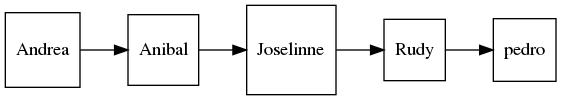
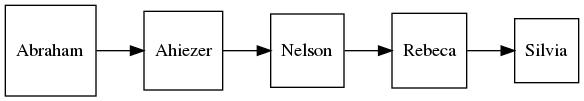
Ya funciona casi

Changed region(s): [[0.0, 0.03, 1.0, 0.96]]

diff --git a/main.cpp b/main.cpp
@@ -9,12 +9,12 @@
 using namespace std;
 using json = nlohmann::json;
 
-void leerJson(Core *cor);
+void leerJson(Core *cor,int *tam);
 void ingresarJugadores(Core *cor);
 void insertarjugadores2(Core *cor){
 
         std::cout<<"Ingresar nombre del usuario"<<std::endl;
-        string nombres[]={"Mario","Silvia","Abraham","Nelson","Rebeca"};
+        string nombres[]={"Ahiezer","Silvia","Abraham","Nelson","Rebeca"};
         bool breaker;
         for(string nombre:nombres){
             breaker=cor->arbol->insertar(nombre);
@@ -29,10 +29,11 @@ void insertarjugadores2(Core *cor){
 
 int main()
 {
-
+    int tama=0;
+    int *taman=&tama;
     Core *core=new Core();
     Tablero *tablero=new Tablero(core);
-    core->crearMatriz(15);
+    //core->crearMatriz(15);
     /*core->matriz->imprimir();
     //core->llenarColaFichas();
     //core->Fichas->imprimir();
@@ -60,7 +61,7 @@ int main()
         std::cin>>opcion;
         switch (opcion) {
         case 1:
-            leerJson(core);
+            leerJson(core,taman);
             break;
         case 2:
             //core->llenarColaFichas();
@@ -70,7 +71,7 @@ int main()
             break;
         case 3:
             tablero->escojerJugadores();
-            tablero->prepararTablero();
+            tablero->prepararTablero(taman);
             tablero->dibujaTablero();
             break;
         case 4:
@@ -134,7 +135,7 @@ void ingresarJugadores(Core *cor){
     }
 }
 
-void leerJson(Core *cor){
+void leerJson(Core *cor,int *tam){
     while (true) {
         std::cout<<"Por favor, ingrese la ruta de ubicacion"<<std::endl;
         std::cout<<"de su archivo de configuarcion"<<std::endl;
@@ -151,7 +152,7 @@ void leerJson(Core *cor){
                     cor->diccionario->insertar((palabra));
                     //cout << "Palabra: " << j3.at("diccionario")[x].at("palabra") << endl;
                 }
-            cor->crearMatriz(j3.at("dimension").get<int>());
+            *tam=j3.at("dimension").get<int>();
             //std::cout<<j3.at("dimension").get<int>()<<std::endl;
 
             for(unsigned int x = 0; x < j3.at("casillas").at("dobles").size(); x++){

diff --git a/core.cpp b/core.cpp
@@ -68,6 +68,44 @@ void Core::meterfichasPruba(){
     this->Fichas->meterradom("G",2,1);
     this->Fichas->meterradom("U",1,4);
     this->Fichas->meterradom("H",4,3);
+    this->Fichas->meterradom("A",1,1);
+    this->Fichas->meterradom("S",1,2);
+    this->Fichas->meterradom("M",3,1);
+    this->Fichas->meterradom("A",1,1);
+    this->Fichas->meterradom("R",1,2);
+    this->Fichas->meterradom("H",4,3);
+    this->Fichas->meterradom("O",1,2);
+    this->Fichas->meterradom("L",1,5);
+    this->Fichas->meterradom("A",1,5);
+    this->Fichas->meterradom("V",4,3);
+    this->Fichas->meterradom("A",1,1);
+    this->Fichas->meterradom("O",1,2);
+    this->Fichas->meterradom("L",1,5);
+    this->Fichas->meterradom("G",2,1);
+    this->Fichas->meterradom("U",1,4);
+    this->Fichas->meterradom("H",4,3);
+    this->Fichas->meterradom("O",1,2);
+    this->Fichas->meterradom("L",1,5);
+    this->Fichas->meterradom("A",1,5);
+    this->Fichas->meterradom("O",1,2);
+    this->Fichas->meterradom("L",1,5);
+    this->Fichas->meterradom("A",1,5);
+    this->Fichas->meterradom("A",1,1);
+    this->Fichas->meterradom("S",1,2);
+    this->Fichas->meterradom("M",3,1);
+    this->Fichas->meterradom("A",1,1);
+    this->Fichas->meterradom("R",1,2);
+    this->Fichas->meterradom("H",4,3);
+    this->Fichas->meterradom("O",1,2);
+    this->Fichas->meterradom("L",1,5);
+    this->Fichas->meterradom("A",1,5);
+    this->Fichas->meterradom("V",4,3);
+    this->Fichas->meterradom("A",1,1);
+    this->Fichas->meterradom("O",1,2);
+    this->Fichas->meterradom("L",1,5);
+    this->Fichas->meterradom("G",2,1);
+    this->Fichas->meterradom("U",1,4);
+    this->Fichas->meterradom("H",4,3);
     this->Fichas->meterradom("O",1,2);
     this->Fichas->meterradom("L",1,5);
     this->Fichas->meterradom("A",1,5);

diff --git a/tablero.h b/tablero.h
@@ -13,6 +13,7 @@ public:
         this->pos=pos;
         this->x=x;
         this->y=y;
+        this->siguiente=NULL;
     }
 };
 
@@ -32,6 +33,7 @@ public:
             if(pos<ultimo->pos){
                 ultimo->siguiente=n;
                 ultimo=n;
+                ultimo->siguiente=NULL;
             }else if(pos>primero->pos){
                 nodoJugada *temp=primero;
                 primero=n;
@@ -109,8 +111,9 @@ class Tablero
 public:
     Core *core;
     Tablero(Core *core);
+    void limpiarTablero();
     void escojerJugadores();
-    void prepararTablero();
+    void prepararTablero(int *tama);
     void dibujaTablero();
     bool colocarLetras(listaJugadas *v,int orientacion,NodoJugadoresLinea *actualPlayer);
     bool verificarIndices(std::vector<std::vector<int>> v,listaJugadas *listJ);

diff --git a/listasimpleordenada.cpp b/listasimpleordenada.cpp
@@ -41,11 +41,14 @@ std::string ListaSimpleOrdenada::toString(std::string nombre){
         std::string cadena;
         cadena="digraph G {node [shape = square]; \n graph [rankdir=LR]; \n";
         cadena+="_diagram_info [shape=\"plaintext\", label=\""+nombre+"\", fontsize=13]";
-        while (temp->siguiente!=NULL) {
-            cadena+="\"["+std::to_string(temp->punteo)+"]\" ->";
-            temp=temp->siguiente;
+        if(temp!=NULL){
+            while (temp->siguiente!=NULL) {
+                cadena+="\"["+std::to_string(temp->punteo)+"]\" ->";
+                temp=temp->siguiente;
+            }
+            cadena+="\"["+std::to_string(temp->punteo)+"]\"";
         }
-        cadena+="\"["+std::to_string(temp->punteo)+"]\"}";
+        cadena+="\n}";
         return cadena;
 }
 

diff --git a/listadoble.cpp b/listadoble.cpp
@@ -79,17 +79,19 @@ std::string ListaDoble::toString(){
     std::string cadena="digraph G {node [shape = square]; \n graph [rankdir=LR]; \n";
     int contado=0;
     while (temp!=NULL) {
-        cadena+=std::to_string(contado)+"[lable= "+temp->letra+"]\n";
+        cadena+="nodo"+std::to_string(contado)+"[label= \""+temp->letra+"\"];\n";
         contado++;
         temp=temp->siguiente;
     }
     temp=primero;
     contado=0;
     while (temp->siguiente!=NULL) {
-        cadena+=std::to_string(contado)+" -> ";
+        cadena+="nodo"+std::to_string(contado)+" -> ";
         contado++;
         temp=temp->siguiente;
     }
+    if(temp!=NULL)
+        cadena+="nodo"+std::to_string(contado)+" \n}";
     return cadena;
 }
 

diff --git a/matriz.h b/matriz.h
@@ -13,6 +13,7 @@
 class Matriz
 {
 public:
+
     CabeceraHorizontal *cabecerasHorizontal;
     CabeceraVertica *cabeceravertical;
     int size;
